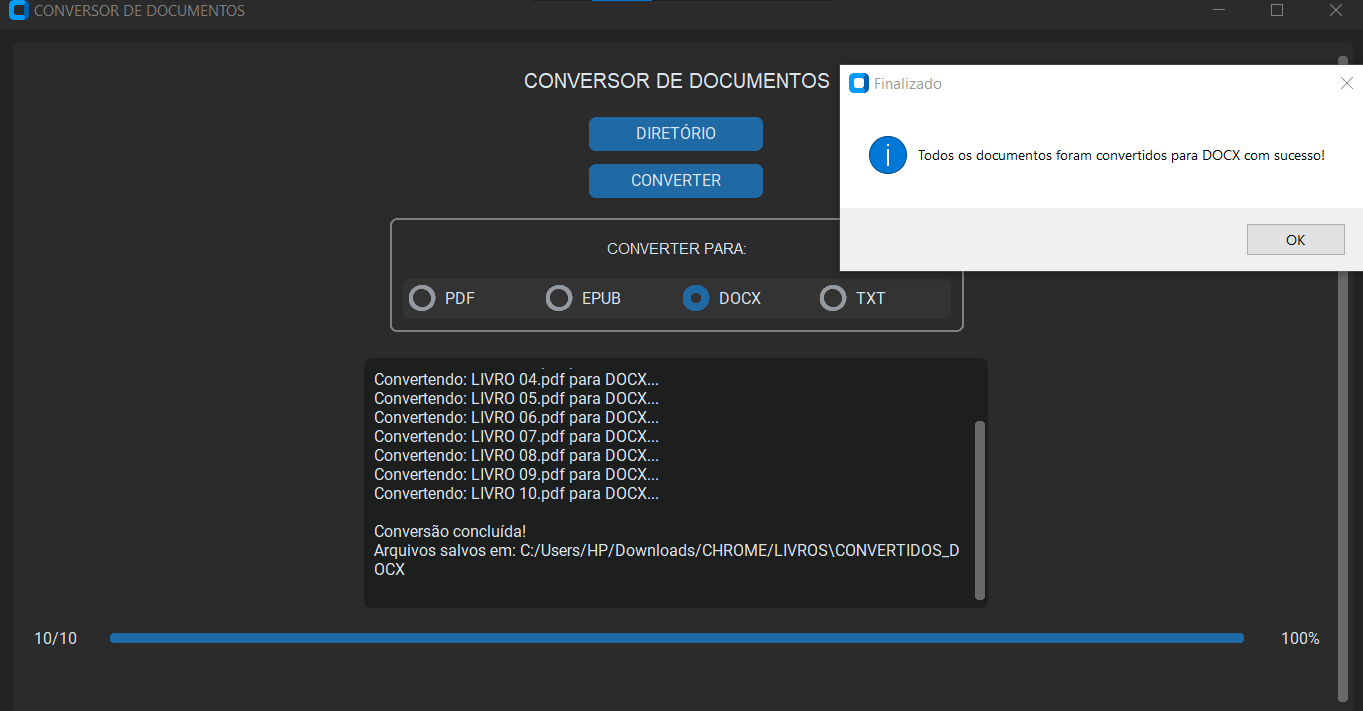
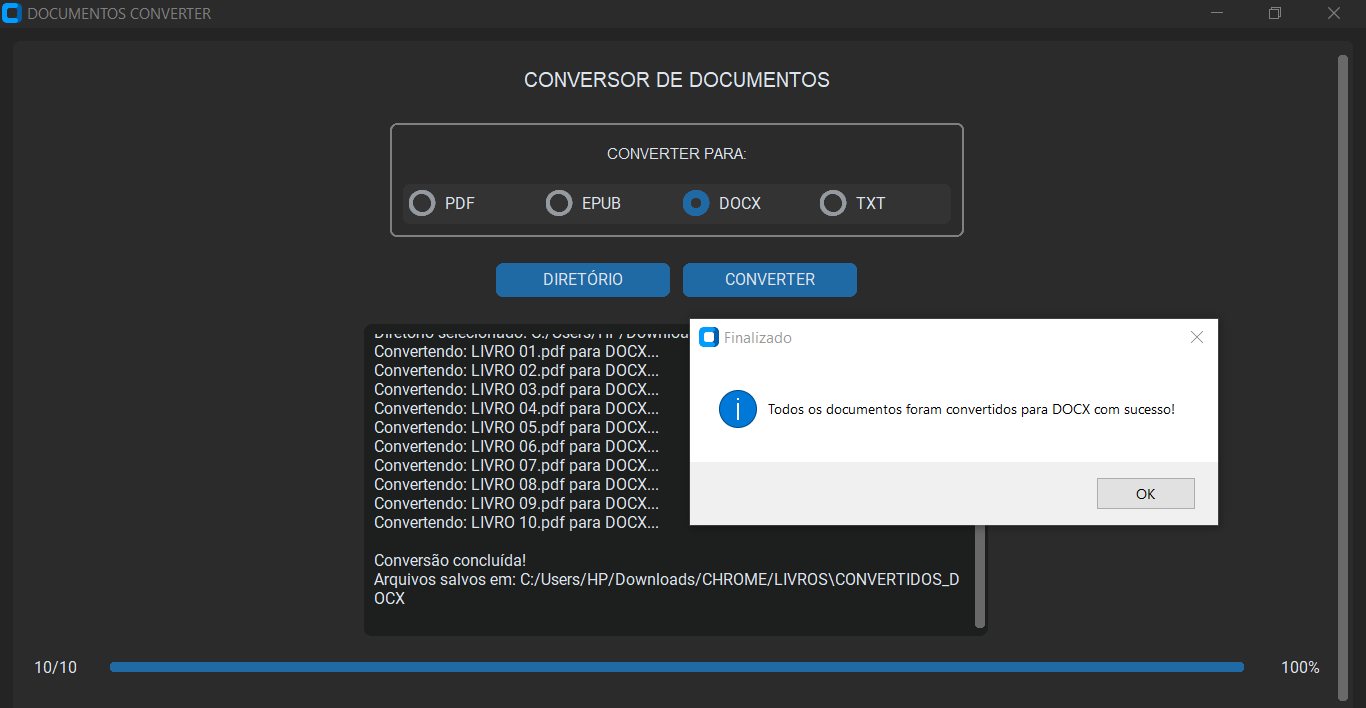
VERSÃO 1.1.1000

diff --git a/CODIGO/CODIGO.py b/CODIGO/CODIGO.py
@@ -25,7 +25,7 @@ def is_hidden(filepath):
 class DocumentConverterApp:
     def __init__(self, root):
         self.root = root
-        self.root.title("CONVERSOR DE DOCUMENTOS")
+        self.root.title("DOCUMENTOS CONVERTER")
 
         ctk.set_appearance_mode("dark")
         ctk.set_default_color_theme("blue")
@@ -38,12 +38,6 @@ class DocumentConverterApp:
 
         self.title_label = ctk.CTkLabel(self.scrollable_frame, text="CONVERSOR DE DOCUMENTOS", font=("Arial", 16))
         self.title_label.pack(pady=10)
-
-        self.select_dir_button = ctk.CTkButton(self.scrollable_frame, text="DIRETÓRIO", command=self.select_directory)
-        self.select_dir_button.pack(pady=5)
-
-        self.convert_button = ctk.CTkButton(self.scrollable_frame, text="CONVERTER", command=self.start_conversion)
-        self.convert_button.pack(pady=5)
 
         self.format_frame_container = ctk.CTkFrame(self.scrollable_frame, border_width=2, border_color="gray")
         self.format_frame_container.pack(pady=10, padx=10)
@@ -60,7 +54,16 @@ class DocumentConverterApp:
                 self.radio_buttons_frame, text=fmt.upper(), variable=self.output_format, value=fmt
             ).pack(side="left", padx=5, pady=5)
 
-        self.status_textbox = ctk.CTkTextbox(self.scrollable_frame, width=500, height=200)
+        self.button_frame = ctk.CTkFrame(self.scrollable_frame)
+        self.button_frame.pack(pady=10)
+
+        self.select_dir_button = ctk.CTkButton(self.button_frame, text="DIRETÓRIO", command=self.select_directory)
+        self.select_dir_button.pack(side="left", padx=5)
+
+        self.convert_button = ctk.CTkButton(self.button_frame, text="CONVERTER", command=self.start_conversion)
+        self.convert_button.pack(side="left", padx=5)
+
+        self.status_textbox = ctk.CTkTextbox(self.scrollable_frame, width=500, height=250)
         self.status_textbox.pack(pady=10)
         self.status_textbox.configure(state='disabled')
 

diff --git a/README.md b/README.md
@@ -6,16 +6,16 @@
 <img src="./IMAGENS/FOTO_03.png" align="center" width="500"> <br>
 
 ## DESCRIÇÃO:
-Este é um aplicativo desktop em **Python** com uma interface moderna feita com `customtkinter`, que permite ao usuário **converter arquivos de documentos** (como `.pdf`, `.docx`, `.txt`, etc.) para outros formatos (`.pdf`, `.epub`, `.docx`, `.txt`), utilizando a biblioteca `pypandoc` (que é um wrapper para o conversor de documentos Pandoc).
+Este é um aplicativo desktop em **Python** com uma interface moderna feita com `customtkinter`, que permite ao usuário **converter arquivos de documentos** (`.docx`, `.txt`, `.md`, `.rtf`, `.odt`, `.html`, `.pdf` e `.epub`) para outros formatos (`.pdf`, `.epub`, `.docx` e `.txt`), utilizando a biblioteca `pypandoc` (que é um wrapper para o conversor de documentos Pandoc).
 
 ## FUNCIONALIDES:
 * Criada com `customtkinter`, com rolagem, botões, rótulos e barra de progresso.
 * Aparência em modo escuro.
 * O usuário pode escolher uma pasta com arquivos de documentos que deseja converter.
 * O programa reconhece automaticamente arquivos com as extensões:
-  * `.docx`, `.txt`, `.md`, `.rtf`, `.odt`, `.html`, `.pdf`
+  * `.docx`, `.txt`, `.md`, `.rtf`, `.odt`, `.html`, `.pdf` e `.epub`
 * O usuário escolhe o formato de saída desejado:
-  * `PDF`, `EPUB`, `DOCX`, `TXT`
+  * `PDF`, `EPUB`, `DOCX` e `TXT`
 * Todos os arquivos do diretório selecionado são convertidos para o formato escolhido.
 * Mostra o andamento da conversão.
 * Exibe mensagens sobre cada etapa da conversão.
@@ -70,7 +70,7 @@ Este é um aplicativo desktop em **Python** com uma interface moderna feita com 
 
 5. **Usando o Aplicativo:**
    1. Clique em **“DIRETÓRIO”** para escolher a pasta com os arquivos a converter.
-   2. Selecione o **formato de saída** (PDF, EPUB, DOCX ou TXT).
+   2. Selecione o **formato de saída** (`PDF`, `EPUB`, `DOCX` ou `TXT`).
    3. Clique em **“CONVERTER”**.
    4. Acompanhe o progresso na barra e na área de status.
    5. Os arquivos convertidos serão salvos automaticamente na subpasta:
